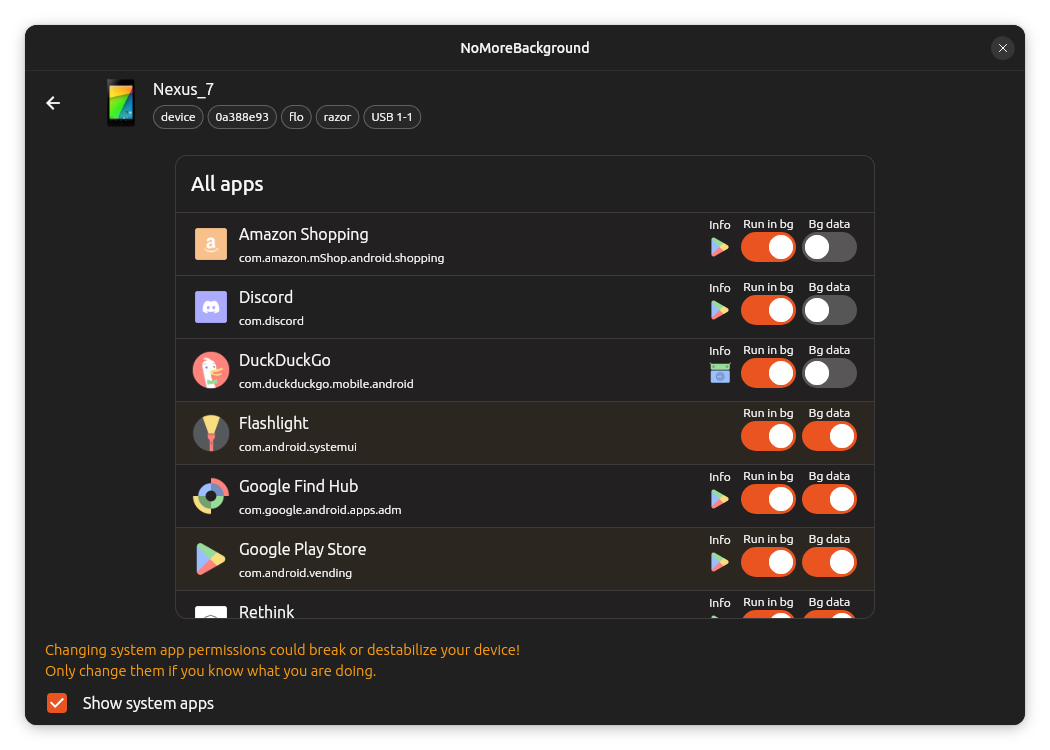
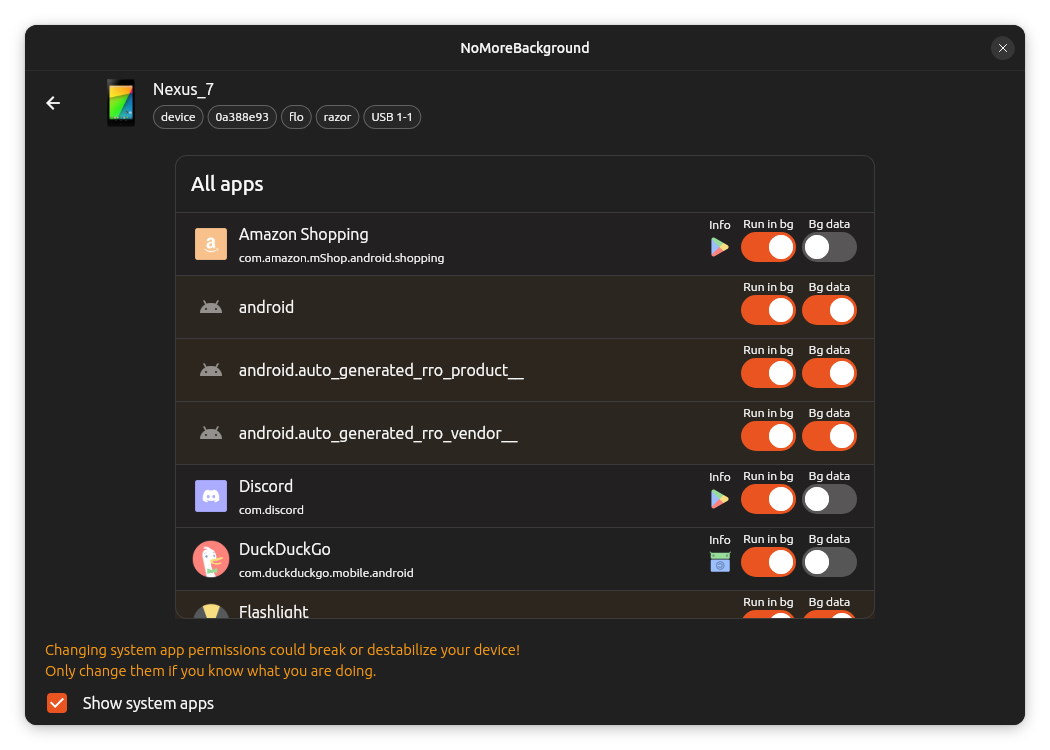
fix: sort apps case-insensitively

diff --git a/lib/compute/adb.dart b/lib/compute/adb.dart
@@ -89,8 +89,11 @@ abstract class Adb {
       for (final line in userApps.split('\n'))
         if (line.isNotEmpty) AdbApp.fromAdbOutput(line, isSystemApp: false),
     ];
-    // TODO: Make this case insensitive
-    apps.sort((a, b) => a.bestAvailableName.compareTo(b.bestAvailableName));
+    apps.sort(
+      (a, b) => a.bestAvailableName.toLowerCase().compareTo(
+        b.bestAvailableName.toLowerCase(),
+      ),
+    );
     return apps;
   }
 
